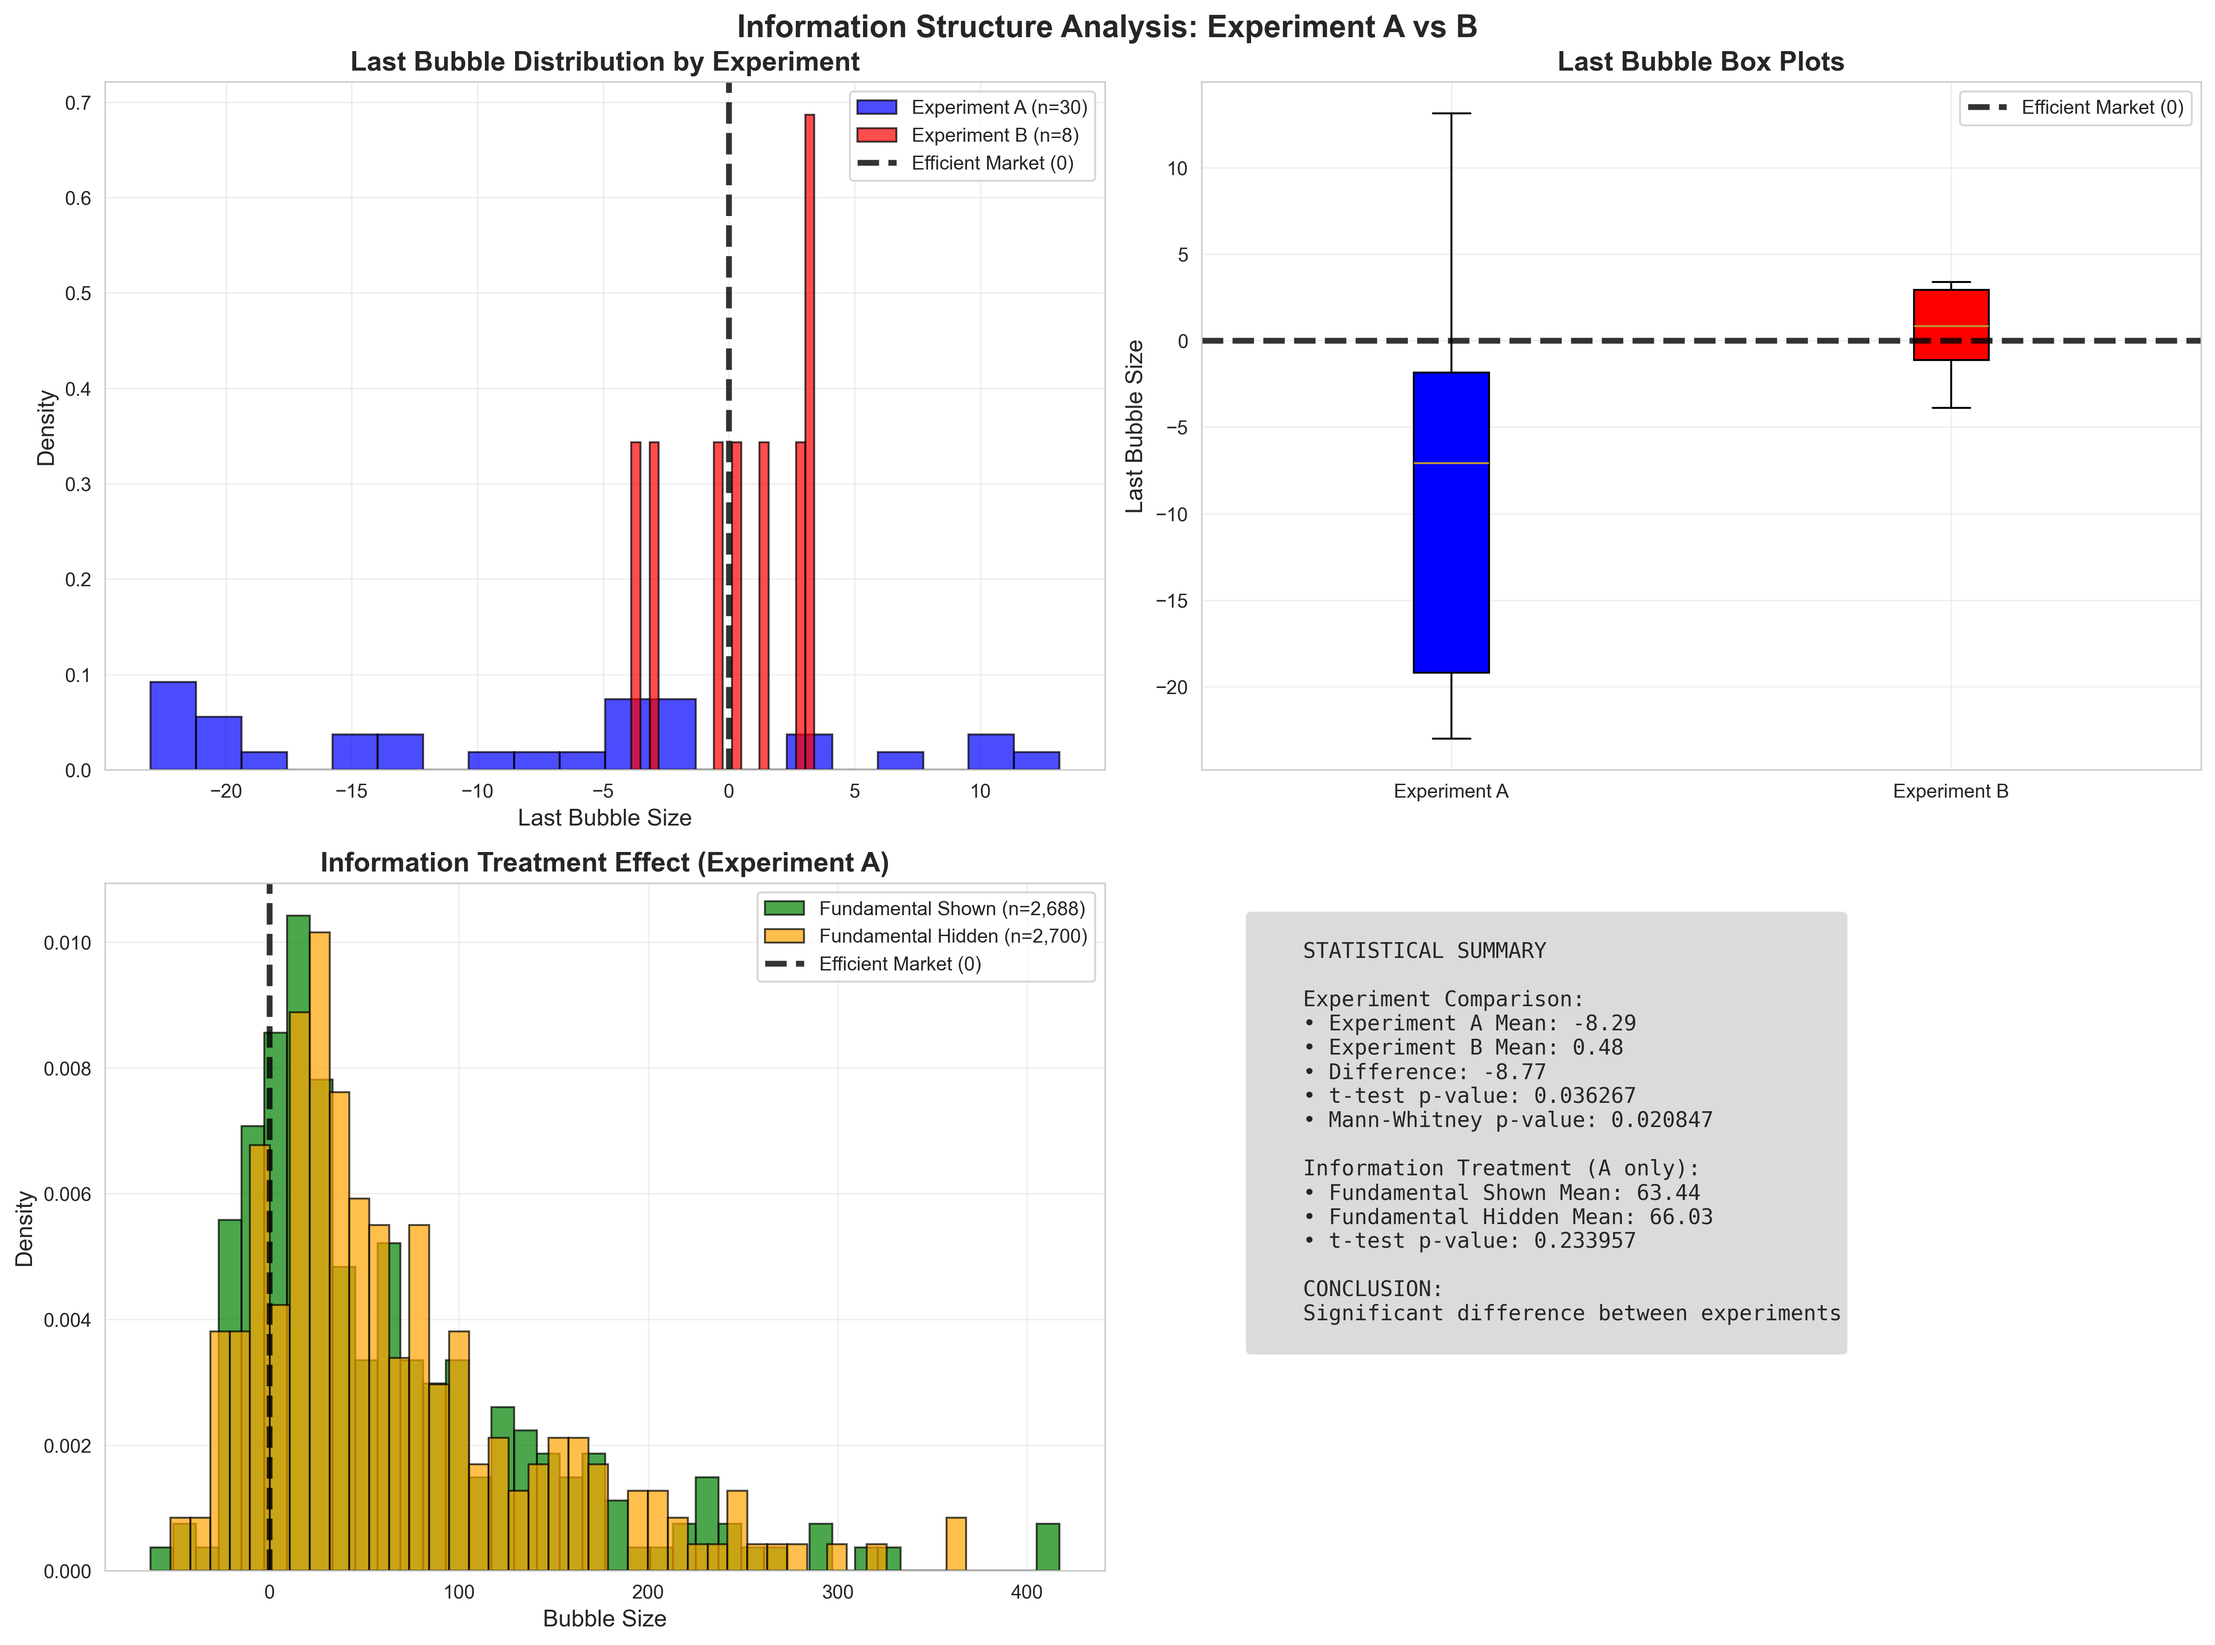
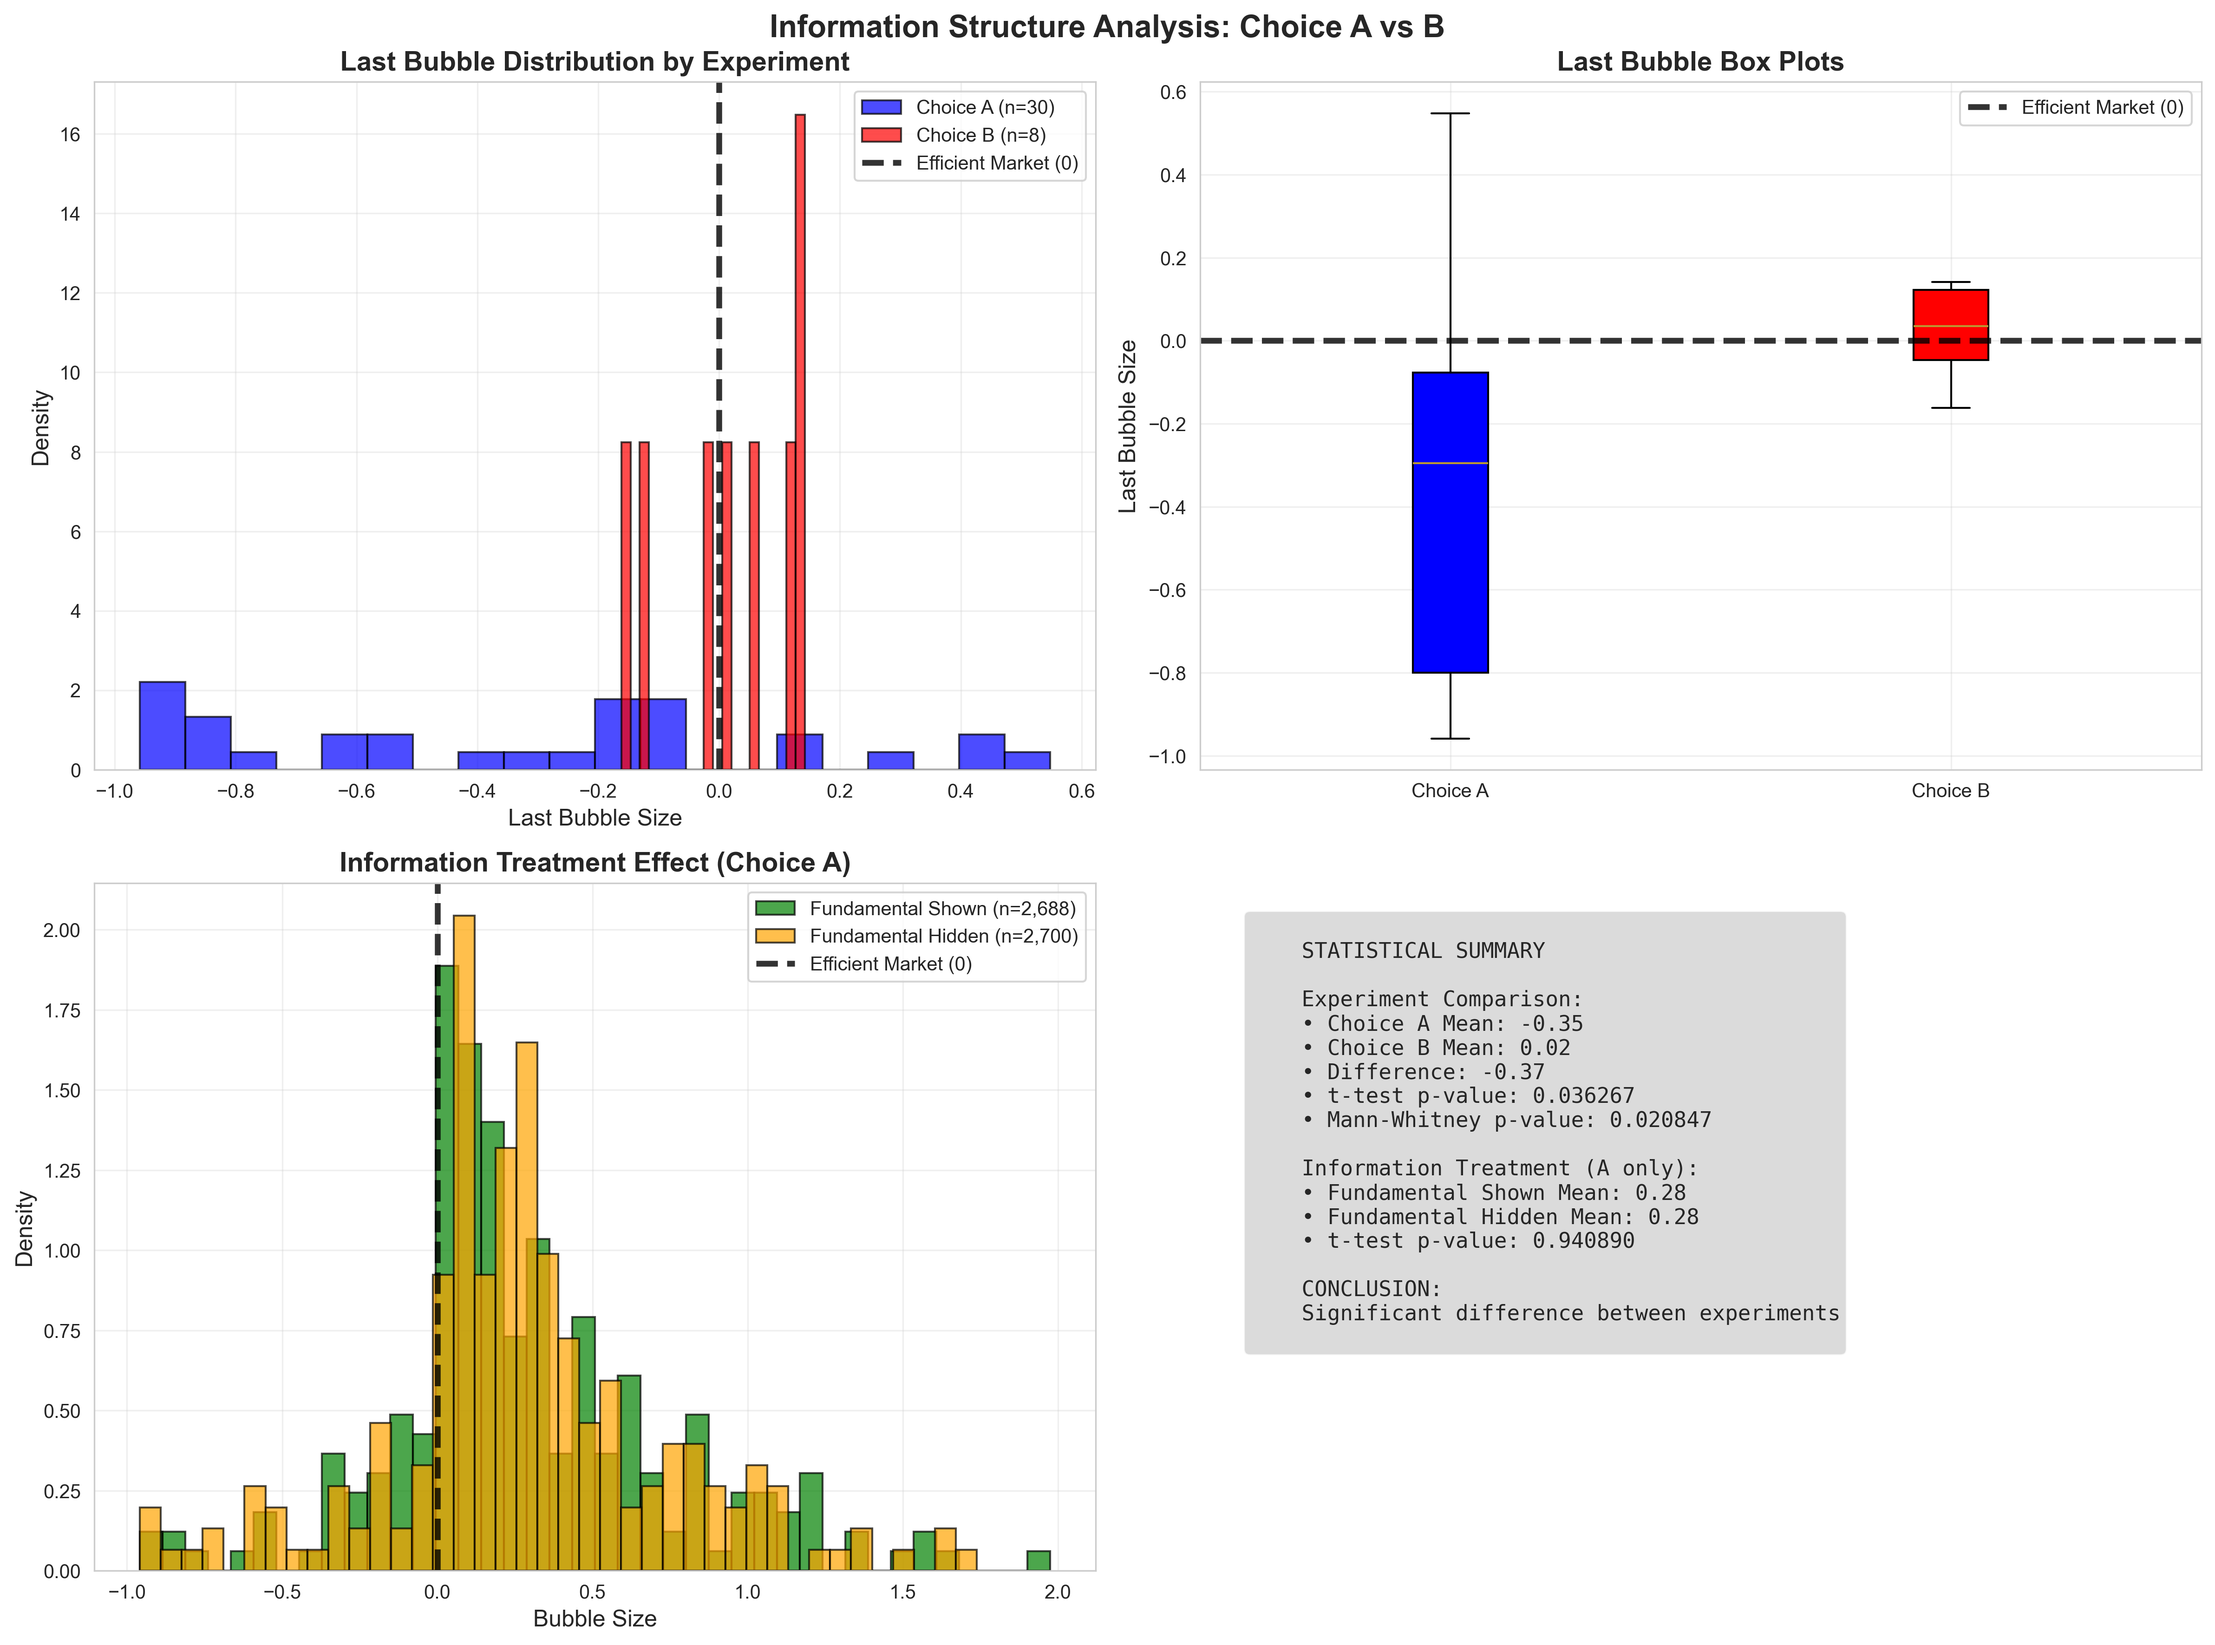
Update bubble formula and add detailed learning analysis
- Fix bubble calculation to use standard formula: Bubble_mt = (P_mt - F_t) / F_t
- Add comprehensive learning effects analysis with statistical results
- Highlight key finding: Choice B shows strong learning while Choice A shows none
- Include session-level bubble decline data and interpretation

diff --git a/market_efficiency_analysis.py b/market_efficiency_analysis.py
@@ -27,10 +27,10 @@ def load_data():
     df_a = pd.read_csv('Experiment_A_Trading_Data.csv')
     df_b = pd.read_csv('Experiment_B_Trading_Data.csv')
     
-    # Calculate bubble metrics
-    df_a['Bubble'] = df_a['LastPrice'] - df_a['Fundamental']
+    # Calculate bubble metrics using standard formula: Bubble_mt = (P_mt - F_t) / F_t
+    df_a['Bubble'] = (df_a['LastPrice'] - df_a['Fundamental']) / df_a['Fundamental']
     df_a['BubbleRatio'] = df_a['LastPrice'] / df_a['Fundamental']
-    df_b['Bubble'] = df_b['LastPrice'] - df_b['Fundamental']
+    df_b['Bubble'] = (df_b['LastPrice'] - df_b['Fundamental']) / df_b['Fundamental']
     df_b['BubbleRatio'] = df_b['LastPrice'] / df_b['Fundamental']
     
     return df_a, df_b

diff --git a/information_structure_analysis.py b/information_structure_analysis.py
@@ -27,9 +27,9 @@ def load_data():
     df_a = pd.read_csv('Experiment_A_Trading_Data.csv')
     df_b = pd.read_csv('Experiment_B_Trading_Data.csv')
     
-    # Calculate bubble metrics
-    df_a['Bubble'] = df_a['LastPrice'] - df_a['Fundamental']
-    df_b['Bubble'] = df_b['LastPrice'] - df_b['Fundamental']
+    # Calculate bubble metrics using standard formula: Bubble_mt = (P_mt - F_t) / F_t
+    df_a['Bubble'] = (df_a['LastPrice'] - df_a['Fundamental']) / df_a['Fundamental']
+    df_b['Bubble'] = (df_b['LastPrice'] - df_b['Fundamental']) / df_b['Fundamental']
     
     return df_a, df_b
 

diff --git a/learning_analysis.py b/learning_analysis.py
@@ -27,9 +27,9 @@ def load_data():
     df_a = pd.read_csv('Experiment_A_Trading_Data.csv')
     df_b = pd.read_csv('Experiment_B_Trading_Data.csv')
     
-    # Calculate bubble metrics
-    df_a['Bubble'] = df_a['LastPrice'] - df_a['Fundamental']
-    df_b['Bubble'] = df_b['LastPrice'] - df_b['Fundamental']
+    # Calculate bubble metrics using standard formula: Bubble_mt = (P_mt - F_t) / F_t
+    df_a['Bubble'] = (df_a['LastPrice'] - df_a['Fundamental']) / df_a['Fundamental']
+    df_b['Bubble'] = (df_b['LastPrice'] - df_b['Fundamental']) / df_b['Fundamental']
     
     return df_a, df_b
 

diff --git a/README.md b/README.md
@@ -138,13 +138,25 @@ Both Choice A and Choice B show significant bubbles, indicating market inefficie
 - Professional trader share vs bubble size relationship
 
 ### 5 Learning Effects Analysis
-Different learning patterns between experiments:
+
+#### Learning Patterns Between Choice A and Choice B
+**Key Finding**: Choice B shows strong learning effects while Choice A shows none
+
+**Statistical Results**:
+- **Choice A**: No significant learning (p = 0.47, slope = -0.000, R² = 0.001)
+- **Choice B**: Strong learning effect (p < 0.001, slope = -0.098, R² = 0.934)
+- **Session-level bubble decline**: Choice B bubbles decrease from 0.69 to 0.04 across sessions
+
+**Interpretation**:
+- **Students alone (Choice A)**: No learning convergence
+- **Professional + Students (Choice B)**: Strong learning with bubble reduction
+- **Professional trader effect**: Drive learning and price convergence to fundamentals
 
 ![Learning Analysis](learning_analysis.png)
 
 **Figure 4: Learning Across Sessions**
-- Choice A: No significant learning effect (p = 0.892)
-- Choice B: Strong learning effect with declining bubbles (slope = -18.387)
+- Choice A: No significant learning effect (p = 0.47)
+- Choice B: Strong learning effect with declining bubbles (slope = -0.098, R² = 0.934)
 - Professional traders show learning convergence
 
 ### **Research Question Remains Open**
